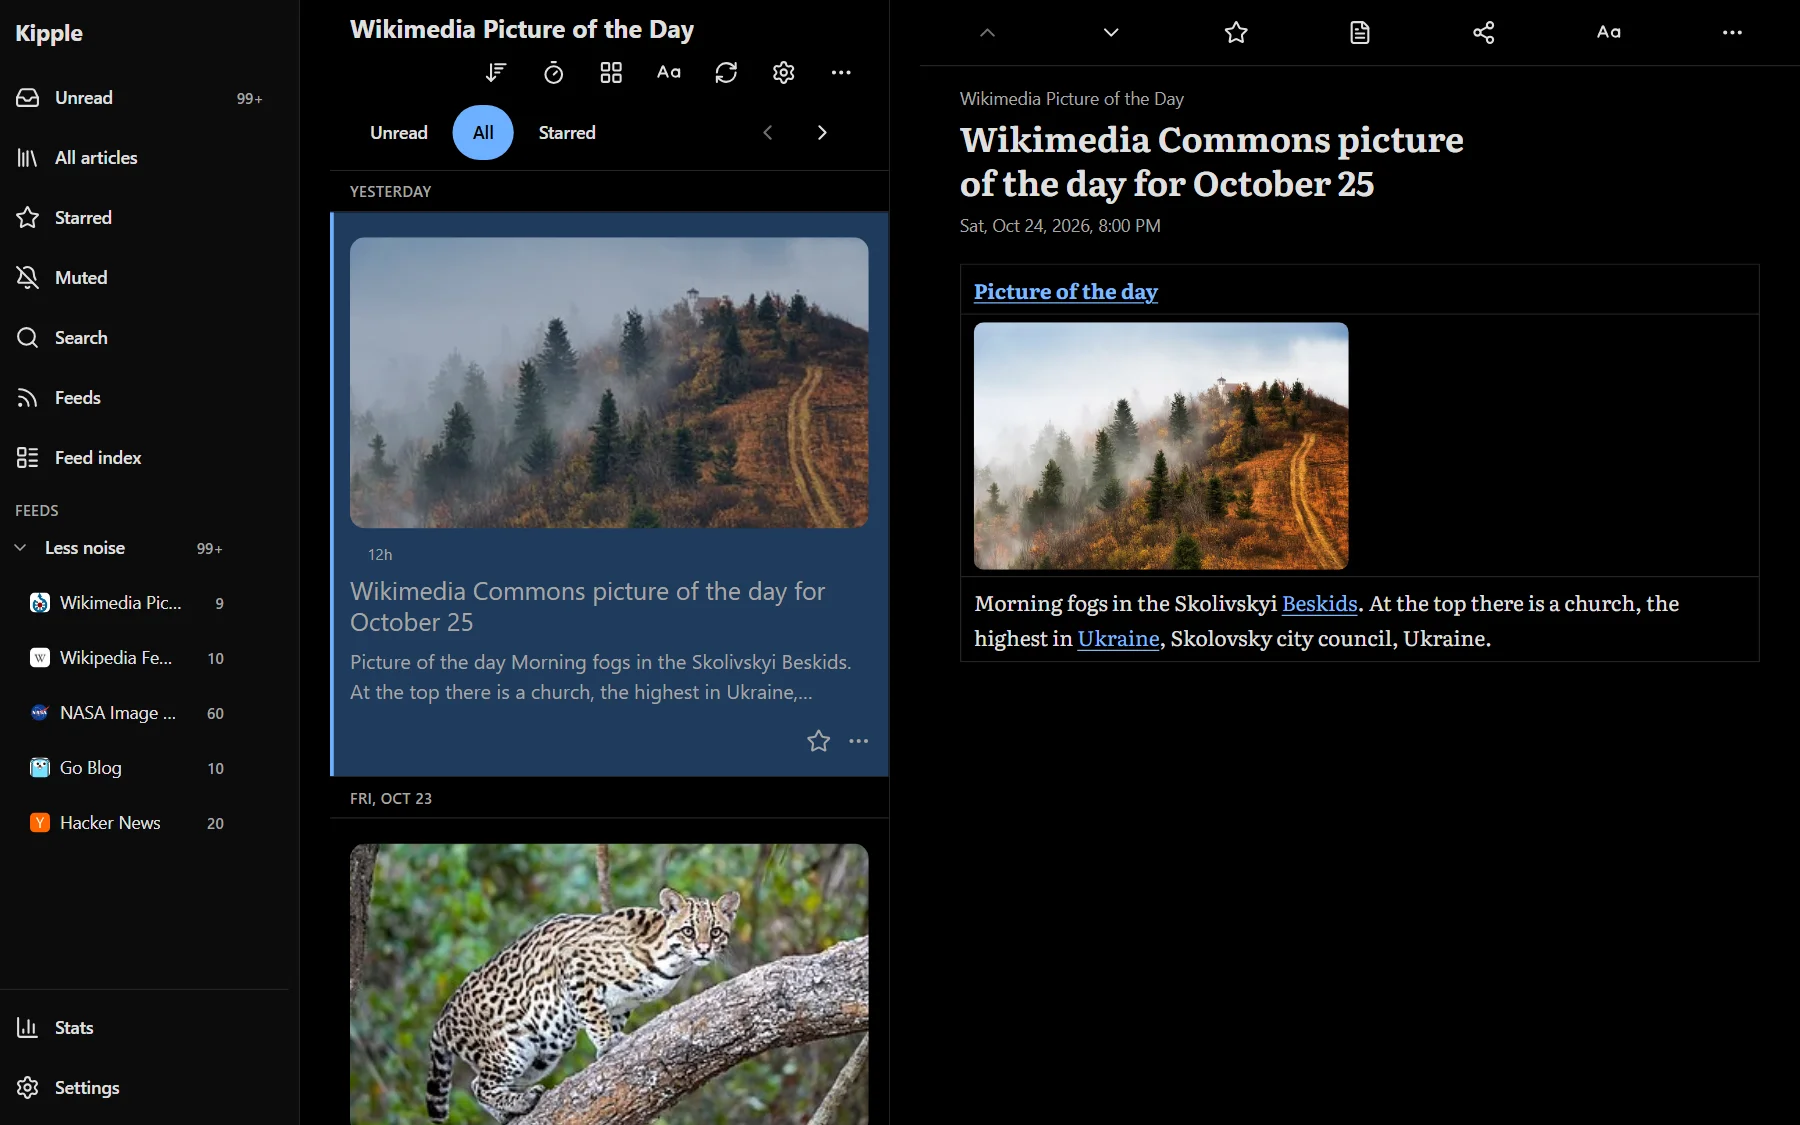
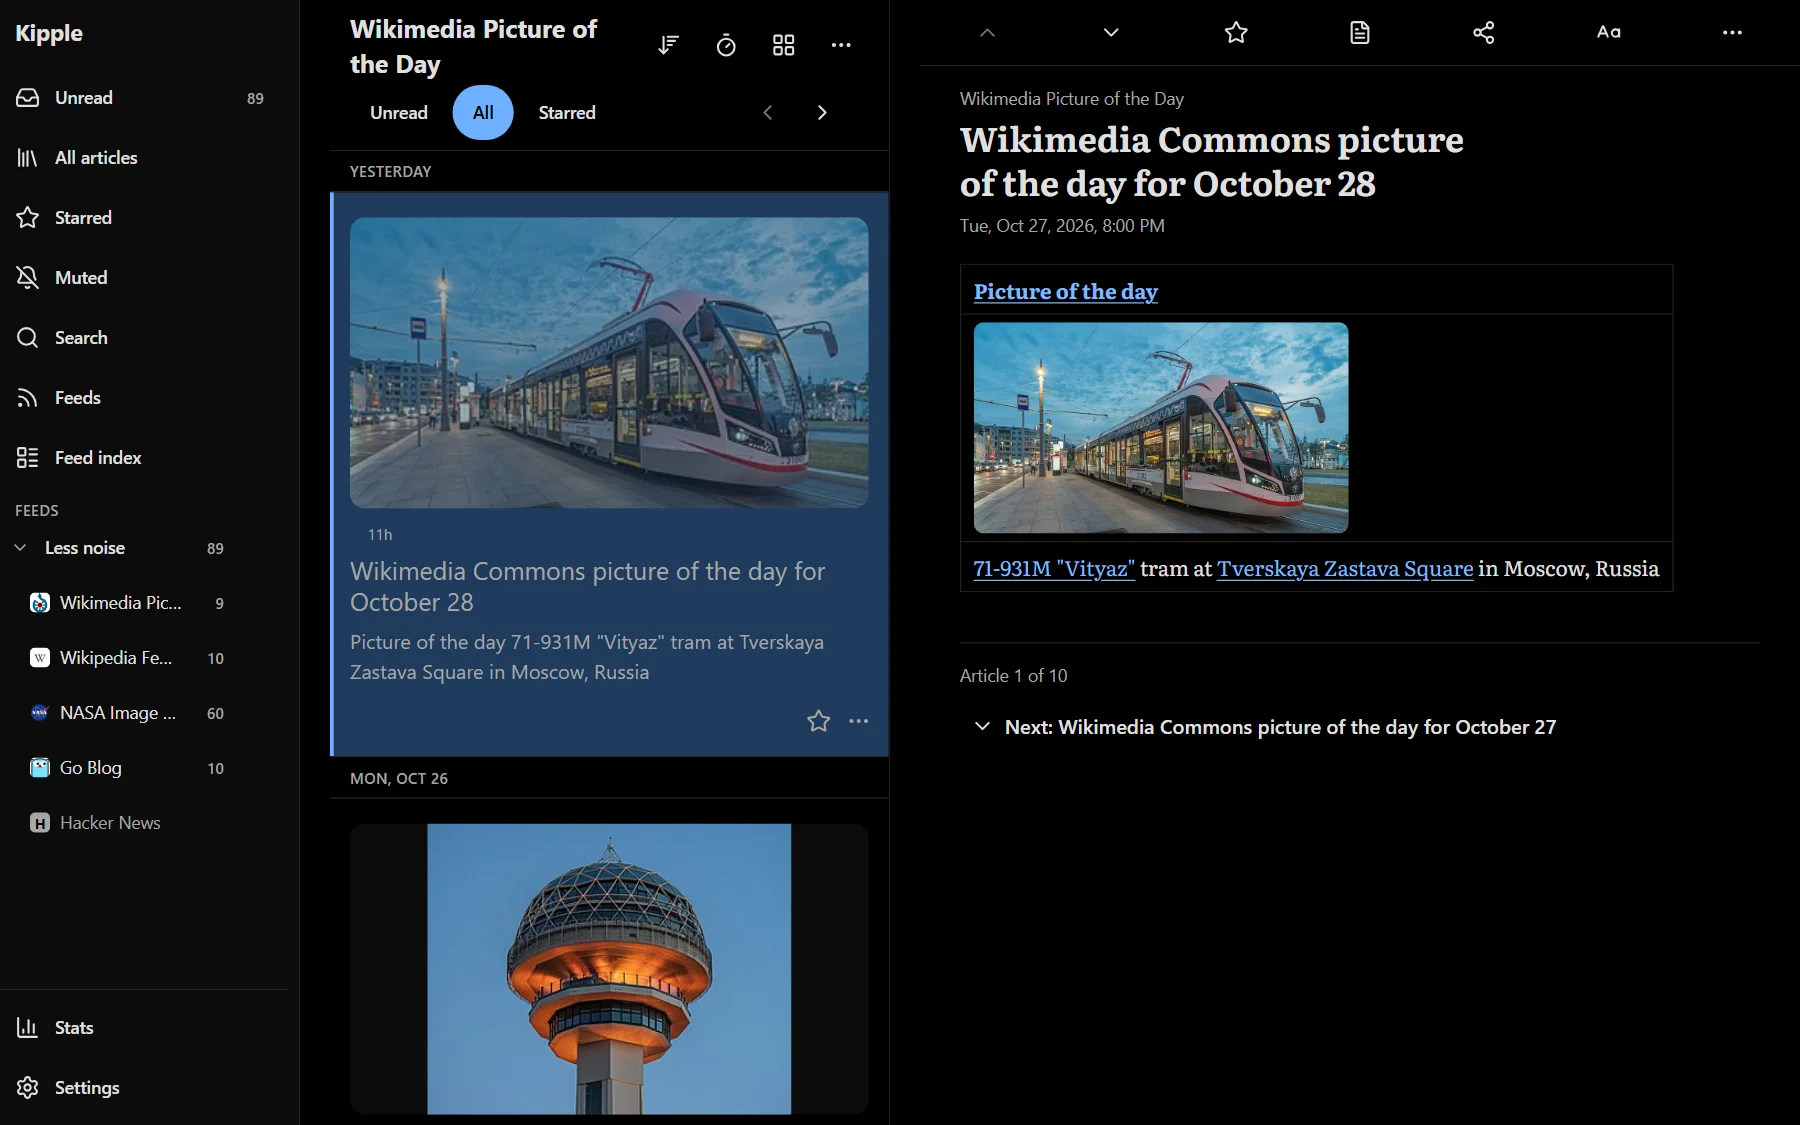
Site: v1.6.0, new screenshots, copy cut (#26)
* Site: v1.6.0, new screenshots, copy cut

The lede repeated the H1 ("Your own RSS reader, on your own machine"). It now
says how Kipple runs and how you read it. The sync bullet moved into the lede,
the layout bullet matches the 1.6 layout menu, the telemetry footnote repeated
the stats bullet and is gone with its CSS rule, and DESIGN-SYSTEM.md no longer
keeps a stale second copy of the page text.

Screenshots and og.png are recaptured from v1.6.0.

* Site: cut "on your server" from the lede and stats bullet

* Site: second copy pass (lede, layouts, schemes, install, footer)

* Site: show the install command

* Site: third copy pass (Features heading, alt text, telemetry, Claude Code line to footer)

* Site: replace Where it stands with Credits; no version on the site

diff --git a/index.html b/index.html
@@ -4,16 +4,16 @@
 <meta charset="utf-8">
 <meta name="viewport" content="width=device-width, initial-scale=1">
 <title>Kipple, a self-hosted RSS reader</title>
-<meta name="description" content="A self-hosted RSS reader you run yourself. Layouts that start with the picture, day and night color schemes, and sync with Google Reader compatible apps.">
+<meta name="description" content="A self-hosted RSS reader with photo and list layouts, day and night color schemes, and Google Reader sync.">
 <meta property="og:type" content="website">
 <meta property="og:site_name" content="Kipple">
 <meta property="og:title" content="Kipple, a self-hosted RSS reader">
-<meta property="og:description" content="A self-hosted RSS reader you run yourself. Layouts that start with the picture, day and night color schemes, and sync with Google Reader compatible apps.">
+<meta property="og:description" content="A self-hosted RSS reader with photo and list layouts, day and night color schemes, and Google Reader sync.">
 <meta property="og:url" content="https://kipple.cc/">
 <meta property="og:image" content="https://kipple.cc/og.png">
 <meta property="og:image:width" content="1280">
 <meta property="og:image:height" content="640">
-<meta property="og:image:alt" content="The word kipple in large serif type, the line Self-hosted RSS reader, and a screenshot of the Kipple web app.">
+<meta property="og:image:alt" content="The word kipple, the line Self-hosted RSS reader, and a screenshot of Kipple.">
 <meta name="twitter:card" content="summary_large_image">
 <link rel="icon" href="favicon.svg" type="image/svg+xml">
 <link rel="icon" href="favicon.ico" sizes="48x48">
@@ -49,15 +49,15 @@
     <div class="wrap">
       <div>
         <h1>Self-hosted RSS reader.</h1>
-        <p class="lede">Your own RSS reader, on your own machine.</p>
+        <p class="lede">Runs in Docker. Read in the browser or in any Google Reader compatible app.</p>
         <div class="cta">
           <a class="btn primary" href="https://github.com/WPTK/Kipple">View on GitHub</a>
-          <a class="btn plain" href="#install">Install it</a>
+          <a class="btn plain" href="#install">Install</a>
         </div>
         <p class="defn"><b>kipple</b> <span class="ipa">/ˈkɪpəl/</span> n. Philip K. Dick's word for the useless things that pile up when nobody is looking. Your unread count, mostly.</p>
       </div>
 
-      <div class="panel" role="group" aria-label="Sample of the Kipple feed list">
+      <div class="panel" role="group" aria-label="Sample feed list">
         <div class="panel-head">
           <span class="count">420</span>
           <span class="count-label">unread<br>across 6 feeds</span>
@@ -80,17 +80,17 @@
         <h2>Screenshots</h2>
       </div>
       <figure class="shot wide">
-        <img src="screenshots/desktop-paper.webp" width="1800" height="1125" alt="Kipple on a desktop in the Paper color scheme. A sidebar on the left with Unread, All articles, Starred, Muted, Search, Feeds and Feed index, and a Less noise folder holding five feeds. Article cards in the middle with a large photo of a foggy autumn hillside, and the article open on the right.">
+        <img src="screenshots/desktop-paper.webp" width="1800" height="1125" alt="Kipple on a desktop in the Paper color scheme: the sidebar, a list of articles with large photos, and an open article.">
       </figure>
       <div class="shot-row">
         <figure class="shot">
-          <img src="screenshots/desktop-midnight.webp" width="1800" height="1125" alt="The same view in the Midnight color scheme, with a black background and light text.">
+          <img src="screenshots/desktop-midnight.webp" width="1800" height="1125" alt="The same view in the Midnight color scheme.">
         </figure>
         <figure class="shot">
-          <img src="screenshots/phone-paper-reader.webp" width="585" height="1266" alt="Kipple on a phone in Paper, showing an article with a photo and caption.">
+          <img src="screenshots/phone-paper-reader.webp" width="585" height="1266" alt="Kipple on a phone in Paper, with an article open.">
         </figure>
         <figure class="shot">
-          <img src="screenshots/phone-midnight-list.webp" width="585" height="1266" alt="Kipple on a phone in Midnight, showing the article list with large photos.">
+          <img src="screenshots/phone-midnight-list.webp" width="585" height="1266" alt="Kipple on a phone in Midnight, showing a list of articles with large photos.">
         </figure>
       </div>
     </div>
@@ -99,15 +99,13 @@
   <section class="sect">
     <div class="wrap">
       <div>
-        <h2>What's different</h2>
+        <h2>Features</h2>
       </div>
       <ul class="bullets">
-        <li>Layouts grouped by how you read. Editorial, the default, and Cards open each article with its photo. Compact, Inbox and Headlines are lists for getting through a lot. Gazette and Digest turn the day into pages and sections.</li>
-        <li>Each device keeps its own layout, and a folder or a single feed can have its own.</li>
-        <li>Color schemes in day and night pairs. Follow the system, put them on a schedule, or pick a scheme and keep it.</li>
-        <li>Just you. Your feeds, read state and reading stats sit in a database on your server, and the yearly summary comes from there.</li>
-        <li>Any app that syncs with a Google Reader account syncs with Kipple.</li>
-        <li>Made with Claude Code.</li>
+        <li>Layouts with big photos (Editorial, Cards), plain lists (Compact, Inbox, Headlines), pages (Gazette) and sections (Digest).</li>
+        <li>Each device, folder and feed can have its own layout.</li>
+        <li>Day and night color schemes that follow your device or a schedule.</li>
+        <li>Reading stats and a summary of your year.</li>
       </ul>
     </div>
   </section>
@@ -120,9 +118,8 @@
           <li>No AI</li>
           <li>No notifications</li>
           <li>No social</li>
-          <li>No monitoring or telemetry*</li>
+          <li>No telemetry</li>
         </ul>
-        <p class="after-code">*Kipple keeps reading statistics in your own database. Nothing is sent anywhere.</p>
       </div>
     </div>
   </section>
@@ -133,25 +130,29 @@
         <h2>Install</h2>
       </div>
       <div class="clients">
-        <p>Kipple is a Docker image. The <a href="https://github.com/WPTK/Kipple#install">README</a> has the command, and the <a href="https://github.com/WPTK/Kipple/blob/main/docs/deploy.md">deploy guide</a> covers backups and upgrades.</p>
+        <pre><code>docker run -d --name kipple \
+  --restart unless-stopped \
+  -p 127.0.0.1:1919:1919 \
+  -v kipple_data:/data \
+  ghcr.io/wptk/kipple:latest</code></pre>
+        <p>Then open <code>http://127.0.0.1:1919</code> and create your account. To reach it from other devices, put it behind a <a href="https://github.com/WPTK/Kipple/blob/main/docs/reverse-proxy.md">reverse proxy</a>. Backups and upgrades are in the <a href="https://github.com/WPTK/Kipple/blob/main/docs/deploy.md">deploy guide</a>.</p>
       </div>
     </div>
   </section>
 
   <section class="sect">
     <div class="wrap">
-      <h2>Where it stands</h2>
-      <p class="status"><span class="mono">v1.5.1</span> is the current stable release.</p>
-      <p class="status links"><a href="https://github.com/WPTK/Kipple/blob/main/CHANGELOG.md">Changelog</a> &middot; <a href="https://github.com/WPTK/Kipple/blob/main/docs/README.md">Docs</a> &middot; <a href="https://github.com/WPTK/kipple-history">History</a></p>
+      <h2>Credits</h2>
+      <p class="status">Made with Claude Code with help from a human who has never programmed anything other than old VTech Laptops in BASIC.</p>
     </div>
   </section>
 </main>
 
 <footer>
   <div class="wrap">
-    <span>Screenshots use public feeds. Images belong to their publishers and Wikimedia Commons contributors; credits are at the source.</span>
-    <span>The Kipple app is licensed under the <a href="https://github.com/WPTK/Kipple/blob/main/LICENSE">Blue Oak Model License 1.0.0</a>. This site is in the public domain under the <a href="https://github.com/WPTK/kipple-website/blob/main/LICENSE">Unlicense</a>.</span>
-    <span><a href="https://github.com/WPTK/Kipple">Source</a> &middot; <a href="https://github.com/WPTK/kipple-history">History</a> &middot; <a href="https://wptk.org">wptk.org</a></span>
+    <span>Photos in the screenshots belong to their publishers and Wikimedia Commons contributors.</span>
+    <span>Kipple is licensed under the <a href="https://github.com/WPTK/Kipple/blob/main/LICENSE">Blue Oak Model License 1.0.0</a>. This site is public domain under the <a href="https://github.com/WPTK/kipple-website/blob/main/LICENSE">Unlicense</a>.</span>
+    <span><a href="https://github.com/WPTK/Kipple">Source</a> &middot; <a href="https://github.com/WPTK/Kipple/blob/main/docs/README.md">Docs</a> &middot; <a href="https://github.com/WPTK/kipple-history">History</a> &middot; <a href="https://wptk.org">wptk.org</a></span>
   </div>
 </footer>
 

diff --git a/style.css b/style.css
@@ -174,16 +174,13 @@ ul.plain li::before { content: "\2715"; font-family: "JetBrains Mono", monospace
 .schemes { flex-wrap: wrap; }
 
 pre {
-  margin: 0; padding: 1rem 1.15rem; overflow-x: auto;
+  margin: 0; padding: 1rem 1.15rem; white-space: pre-wrap; overflow-wrap: anywhere;
   background: var(--surface); border: 1px solid var(--line); border-radius: 3px;
   font-size: 0.875rem; line-height: 1.7;
 }
 pre .c { color: var(--muted); }
-.after-code { margin: 1rem 0 0; font-size: 0.95rem; color: var(--muted); }
-.after-code code { color: var(--ink); }
 
 .status { margin: 0; }
-.status .mono { font-size: 0.9rem; }
 
 .setup-text { color: var(--muted); max-width: 40rem; }
 .setup-text p { margin: 0 0 1rem; }
@@ -220,4 +217,3 @@ footer .wrap { display: flex; flex-wrap: wrap; gap: 0.5rem 2rem; justify-content
   .btn, .nav a { transition: background-color 120ms, color 120ms; }
 }
 
-.status + .status { margin-top: 0.75rem; }

diff --git a/design-system/DESIGN-SYSTEM.md b/design-system/DESIGN-SYSTEM.md
@@ -51,7 +51,6 @@ Latin subset only. Preload: `atkinson-hyperlegible-next-latin-400-normal.woff2`.
 | Anti-feature mark (the cross) | JetBrains Mono | 13px (0.8125rem) | 400 | 1.6 | normal |
 | Code block | JetBrains Mono | 14px (0.875rem) | 400 | 1.7 | normal |
 | Text after code block | Atkinson | 15.2px (0.95rem) | 400 | 1.6 | normal |
-| Status version tag | JetBrains Mono | 14.4px (0.9rem) | 400 | 1.6 | normal |
 | Footer | Atkinson | 14px (0.875rem) | 400 | 1.6 | normal |
 
 Headings use `text-wrap: balance`. Numeric columns use `font-variant-numeric: tabular-nums` (unread count and
@@ -111,10 +110,10 @@ the site and were not taken from the app. If parity with the app matters, decide
 1. Header
 2. Hero
 3. "Screenshots" (section, id `screens`)
-4. "What's different" (section)
+4. "Features" (section)
 5. "Anti-features" (section)
 6. "Install" (section, id `install`)
-7. "Where it stands" (section)
+7. "Credits" (section)
 8. Footer
 
 ## 6. Components
@@ -185,25 +184,23 @@ Uses the content-section grid. Left cell: the H2 "What it looks like". Right cel
 
 ### Bullet list (`ul.bullets`)
 - Default bullets, padding-left 1.2rem (19.2px), no margin, grid gap 0.6rem (9.6px), max width 36rem (576px).
-- Used by "What's different".
+- Used by "Features".
 
 ### Anti-feature list (`ul.plain`)
 - No bullets, no margin or padding, grid gap 0.35rem (5.6px), 18.4px.
 - Each item has a cross mark before it: the character U+2715, JetBrains Mono 13px, `--muted`, 0.75rem (12px) of
   space after it.
-- Items: No AI / No notifications / No social / No monitoring or telemetry*
-- Footnote under the list uses the "text after code block" style (15.2px, `--muted`, margin-top 1rem).
 
 ### Code block (`pre`)
 - Padding 1rem 1.15rem (16px 18.4px), `--surface` background, `1px solid --line` border, radius 3px,
-  `overflow-x: auto`, JetBrains Mono 14px, line height 1.7. Comment lines (`.c`) are `--muted`.
+  `white-space: pre-wrap` so a long command wraps instead of scrolling, JetBrains Mono 14px, line height 1.7. Comment lines (`.c`) are `--muted`.
 - Inline `code` in text uses JetBrains Mono at the surrounding size. In the text after a code block, `code` is
   `--ink`.
 
 ### Footer
 - Top border `1px solid --line`, padding-block 2rem (32px) 3rem (48px), 14px, `--muted`.
 - Inner `.wrap`: flex, wrap, gap 0.5rem (8px) row and 2rem (32px) column, `justify-content: space-between`.
-- Left: license sentence. Right: Source, History, wptk.org links separated by a middle dot.
+- Left: license sentence. Right: Source, Docs, History, wptk.org links separated by a middle dot.
 
 ### Links and focus
 - Links: `--accent`, `text-underline-offset: 0.18em`; on hover `text-decoration-thickness: 2px`.
@@ -219,33 +216,29 @@ for reduced motion. No other animation.
   `kipple-scheme`. A saved value sets `data-scheme` on `<html>`. Clicking a button sets or clears it and writes
   or removes the key. Every read and write is wrapped in try/catch, and the page works with storage unavailable.
 - Buttons expose state with `aria-pressed`.
-- Anchor `#install` scrolls to the Install it section.
+- Anchor `#install` scrolls to the Install section.
 - Skip link (`.skip`, first element in `<body>`, target `<main id="main">`): off screen (`top: -4rem`) until it has keyboard
   focus, then `top: 0.5rem`. Accent background, `--on-accent` text, 600 weight, padding 0.65rem 1.1rem, radius 3px.
 - Tap targets: links inside paragraphs, definition descriptions and the footer get `padding-block: 0.25rem` (footer links
   are also `inline-block`), so each is at least 24px tall.
 
-## 8. Content (exact copy as of this commit)
+## 8. Content
 
-- Title: `Kipple, a self-hosted RSS reader`
-- Description: `Self-hosted RSS reader that syncs with any RSS client that speaks the Google Reader API. One container, one port, SQLite.`
-- H1: `Self-hosted RSS reader.`
-- Lede: `Kipple syncs with the RSS apps you already use, keeps everything in SQLite, and runs as one container on one port. It's built to look good while you read.`
-- Buttons: `View on GitHub` (primary, https://github.com/WPTK/Kipple), `Install it` (plain, `#install`)
-- Definition: `kipple /ˈkɪpəl/ n. Philip K. Dick's word for the useless things that pile up when nobody is looking. Your unread count, mostly.`
+`index.html` holds the copy and is its only source; this file does not repeat it.
+
 - Sample panel: big count `420`, label `unread across 6 feeds`. Feeds and counts: Unsung 187, 512 Pixels 101, Storied
   Colors 69, Electrek 42, McSweeney's 13, Saturday Down South 8. The counts total 420. Rows 1 and 2 are `hot`.
-- Section headings: Screenshots / What's different / Anti-features / Install / Where it stands.
-- Footer: `The Kipple app is licensed under the Blue Oak Model License 1.0.0. This site is in the public domain under the Unlicense.` (each license name is a link), then links Source, History, wptk.org.
-- `index.html` is the canonical copy for every sentence. Do not paraphrase it when rebuilding.
 
 ## 9. Copy rules
 
 - Plain and specific. Short sentences. State what it does, with real numbers and paths.
+- The lede adds what the H1 does not say (how it runs, how you read). It never restates the H1.
+- Say each thing once on the page. If a footnote or bullet repeats another line, cut one.
+- Every claim matches a label or setting in the current release.
 - No em dashes, no colon-as-connector, no "not X but Y", no marketing adjectives, no emoji.
 - Do not name other RSS readers or apps anywhere.
 - No real names or hostnames. Copyright line reads "Kipple contributors".
-- The Install section is one sentence that points to the README and the deploy guide. It carries no command or image tag. "Where it stands" holds the current version; update it with every release.
+- The Install section shows the README's `docker run` command, one flag per line, with the `latest` tag (never a version, so it does not go stale), then one short paragraph linking the reverse proxy and deploy guides. If the README command changes, change it here too. The site names no version, so a release changes it only when the screenshots change.
 
 ## 10. Assets and links
 
@@ -256,10 +249,10 @@ for reduced motion. No other animation.
 - `screenshots/`: four WebP files listed in the Screenshots component. Captured from a throwaway instance of the app
   by the app repo's `scripts/maintainers/site-shots.mjs` (run at every release that changes the UI, `docs/maintainers/RELEASING.md` step 12), after
   `KIPPLE_SEED_SET=site npm run seed`, which seeds Wikimedia Picture of the Day, Wikipedia Featured Article, NASA
-  Image of the Day, Go Blog and Hacker News in a folder named "Less noise". Last captured 2026-10-25 at app commit `v1.5.0` (`8a6cf84a5446e2b1c3a54582f39a827c57573b0f`), straight from the seed with no extra folders, so the sidebar shows the single "Less noise" folder. Desktop: a 1440 x 900 viewport at 1.25x, giving 1800 x 1125 directly. Phone: 390 x 844
+  Image of the Day, Go Blog and Hacker News in a folder named "Less noise". Last captured 2026-10-28 at app commit `v1.6.0` (`79c4719675fe63b7c452bd755d3af5a47524b33b`), straight from the seed with no extra folders, so the sidebar shows the single "Less noise" folder. Desktop: a 1440 x 900 viewport at 1.25x, giving 1800 x 1125 directly. Phone: 390 x 844
   at 1.5x, giving 585 x 1266. The list uses the device's default layout (Editorial). Light is the app's Paper scheme.
   Dark is the app following a dark system setting, which gives Midnight. Article shown: the Wikimedia Commons picture
-  of the day for October 25 (morning fog over a hillside in the Skolivskyi Beskids, Ukraine). The WebP files are encoded by the browser
+  of the day for October 28 (a 71-931M "Vityaz" tram at Tverskaya Zastava Square, Moscow). The WebP files are encoded by the browser
   at quality 0.85. `og.png` is re-rendered by the same script from `design-system/social-preview.html`.
 - The hero sample panel (unread count 420) is HTML and CSS, not a screenshot.
 - Favicon: `favicon.svg`, `favicon.ico` (16, 32 and 48 px), `apple-touch-icon.png` (180 x 180).
